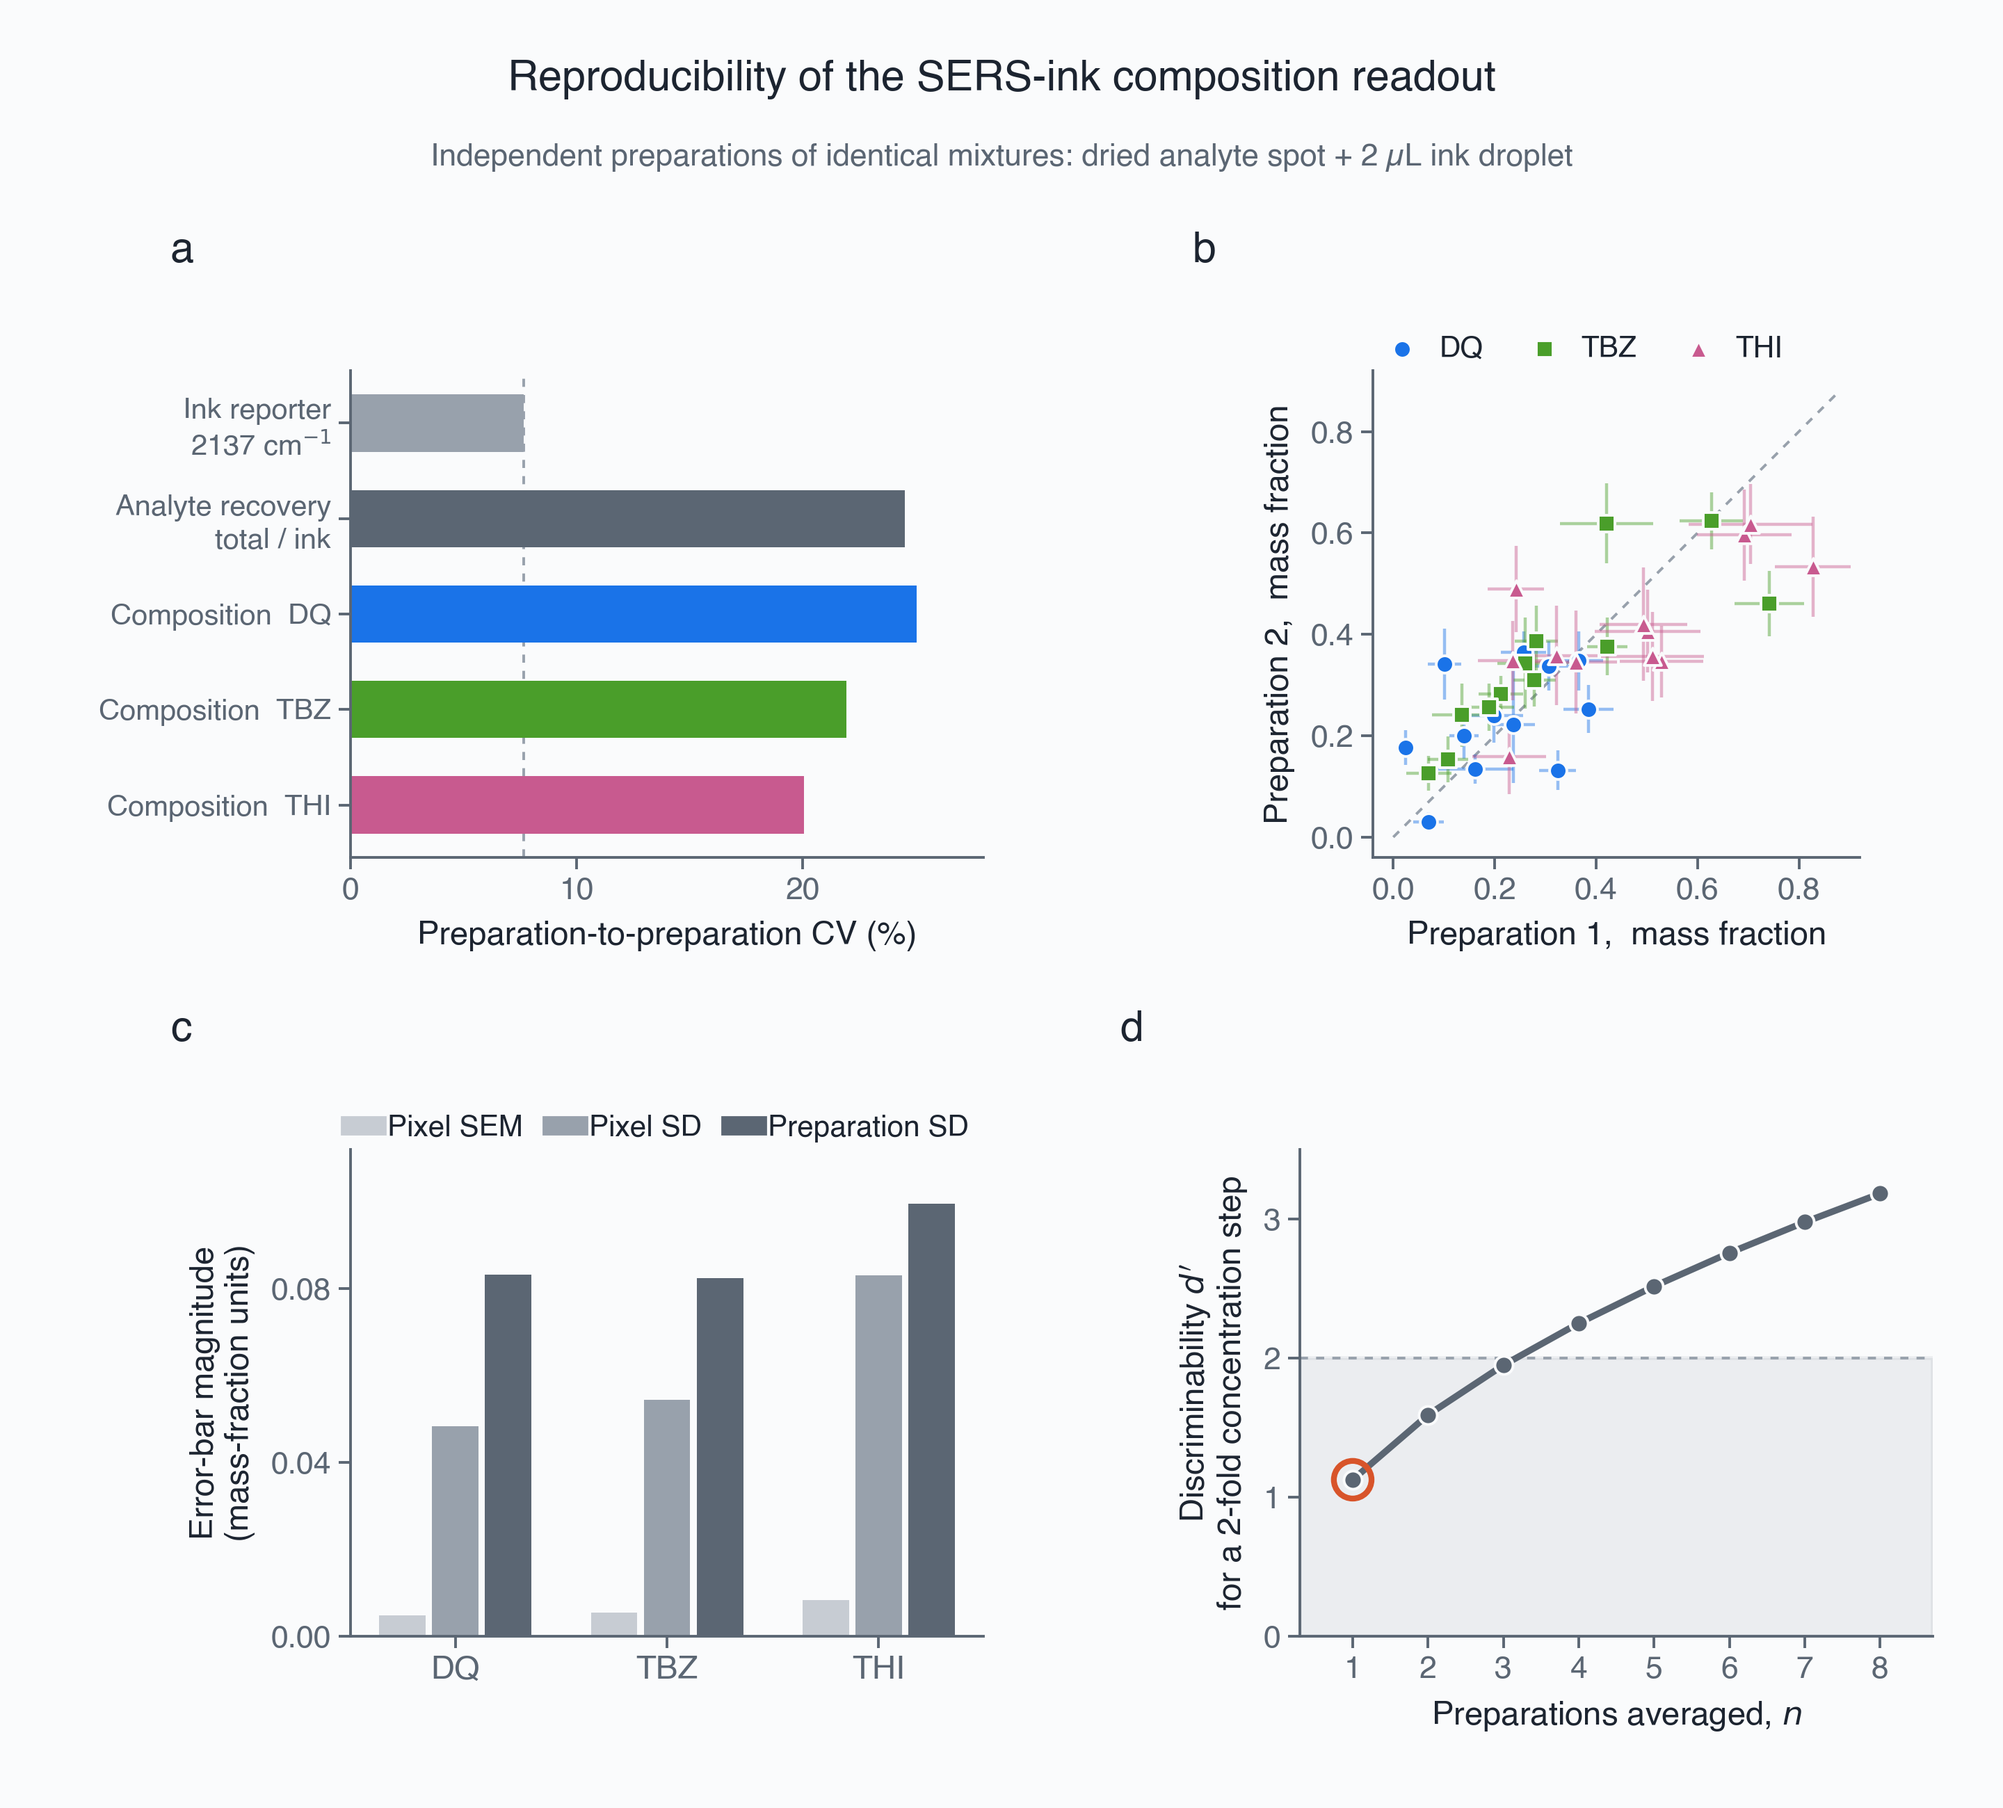
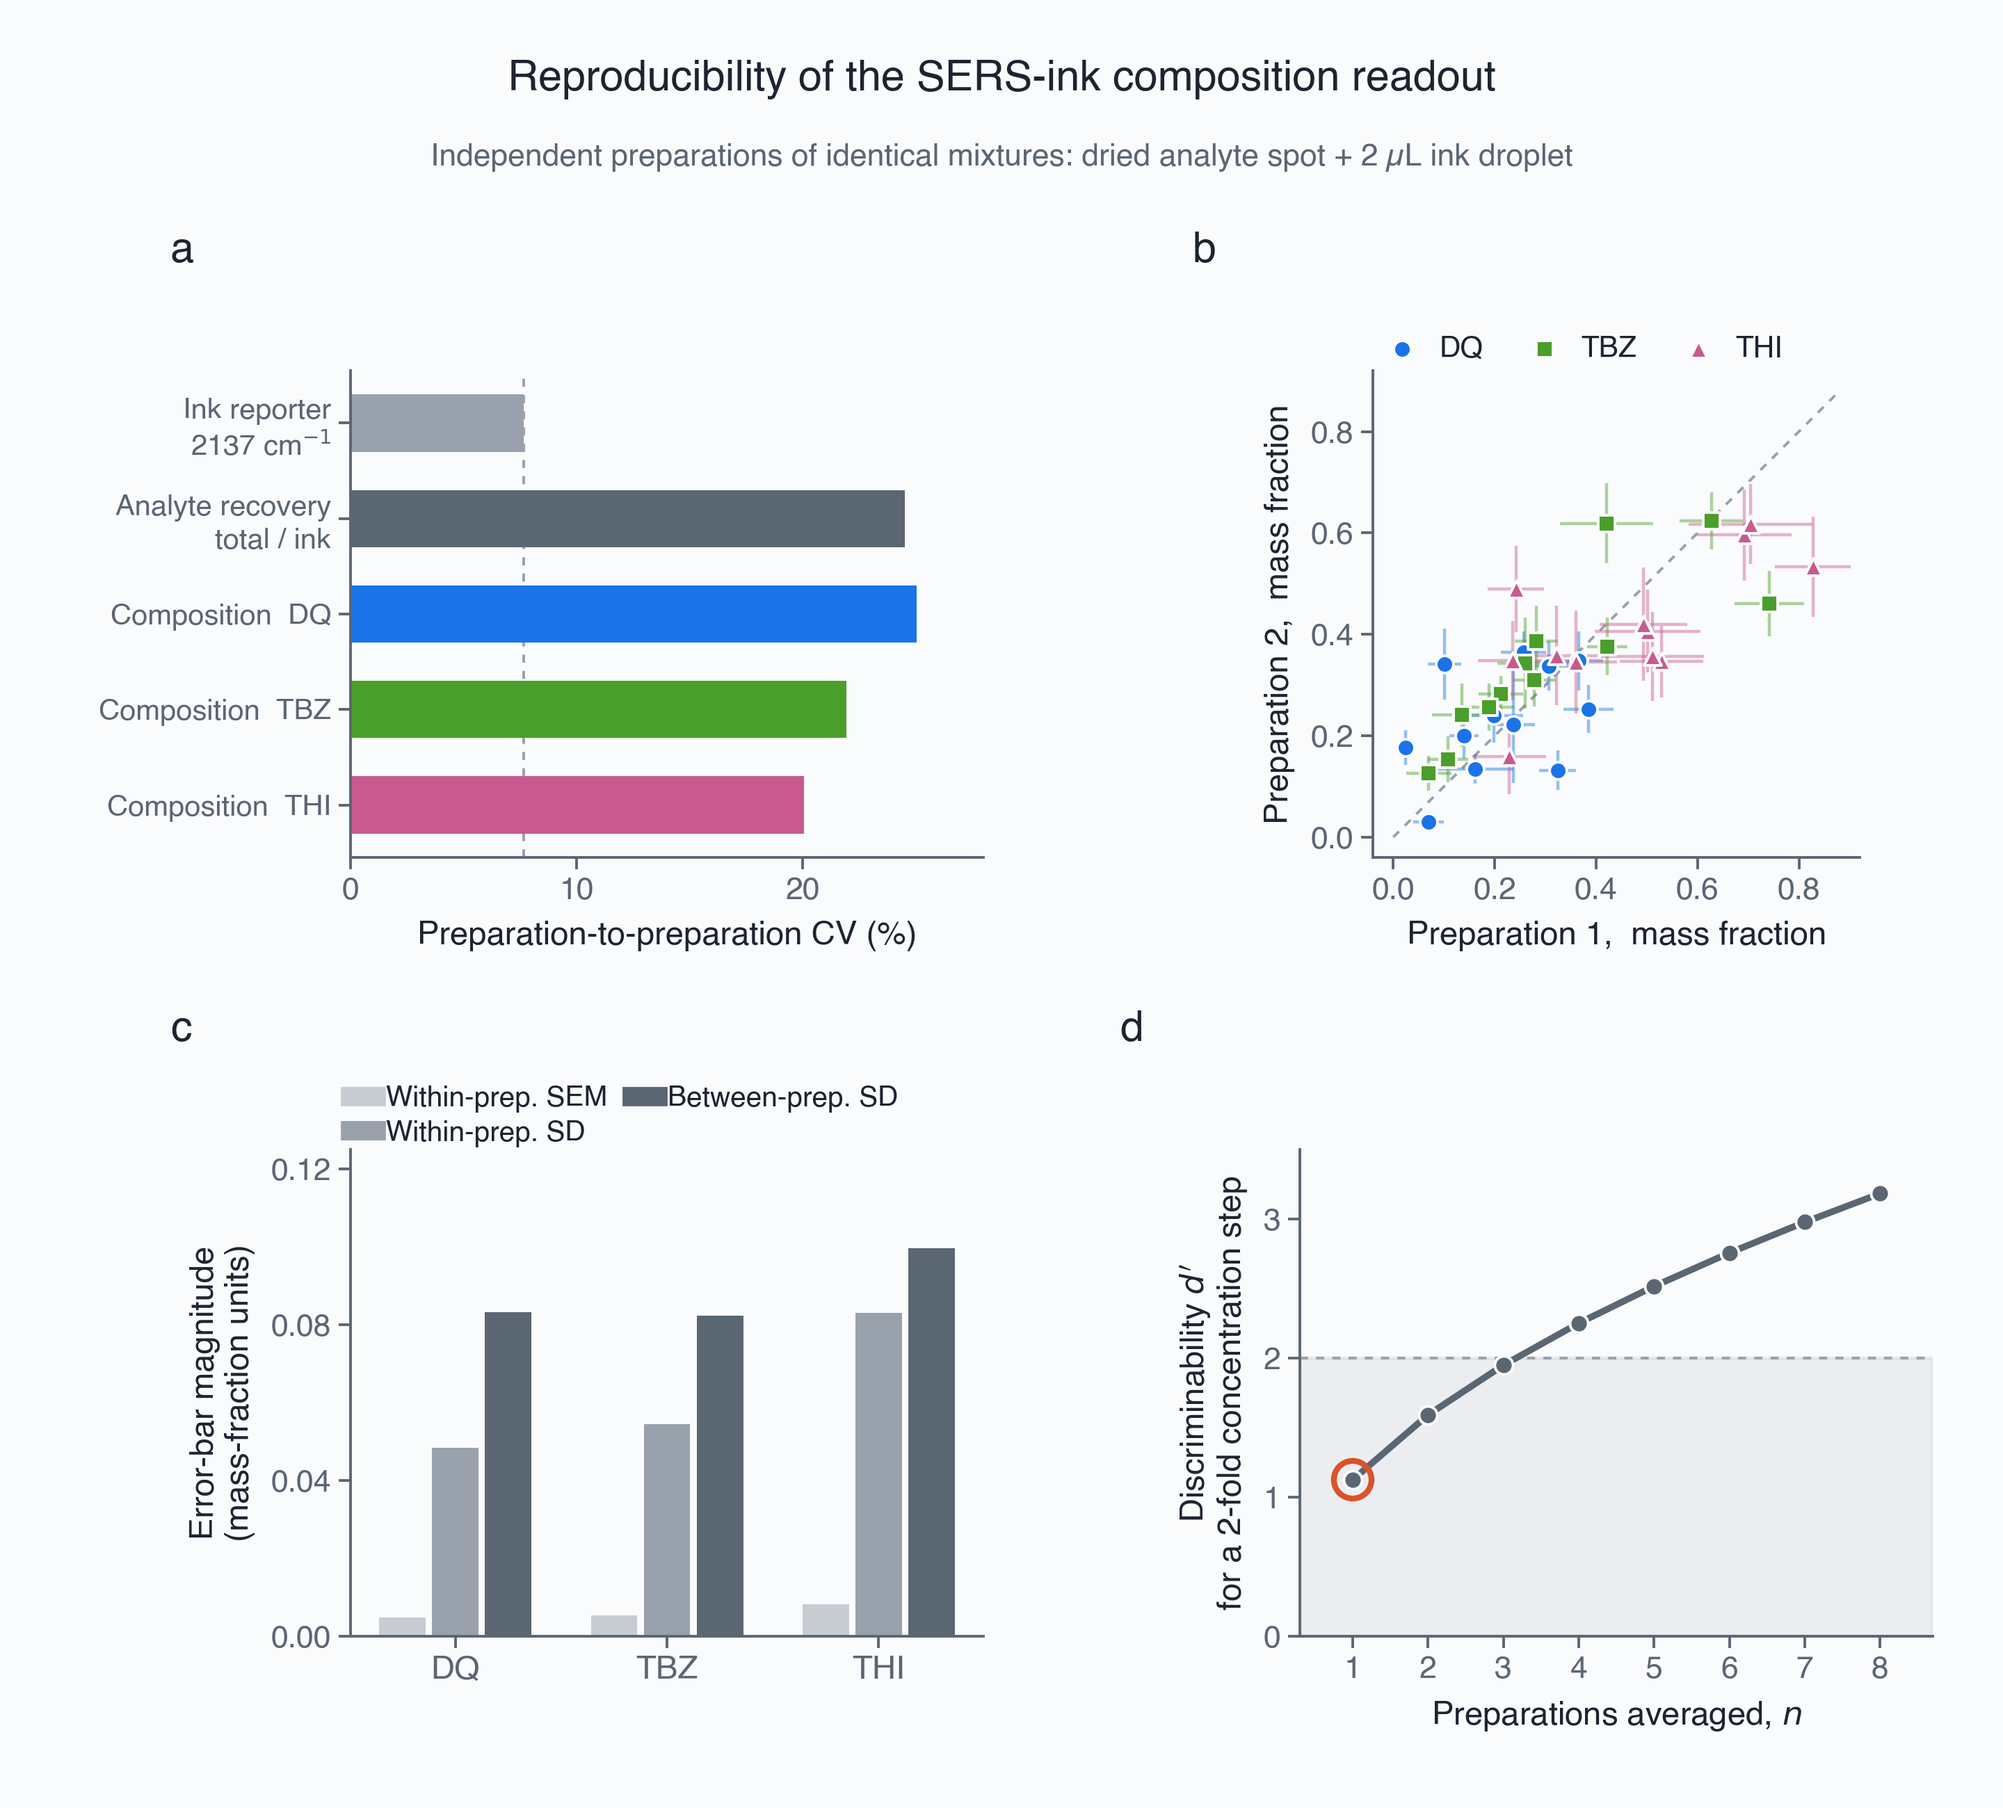
Analysis: drop 'map' from reported wording, use within-/between-preparation
'map' is Raman-imaging jargon the manuscript never defines, so the figure legend
and caption now say Within-prep. SEM / Within-prep. SD / Between-prep. SD.

A bare 'n = 100' is not the fix: unqualified, it reads as 100 independent
replicates, which is exactly the pseudoreplication this figure warns about. The
wording drops 'map' but keeps the unit — the 100 spectra come from within one
preparation.

diff --git a/analysis/dq9-sus-reproducibility/scripts/fig_main.py b/analysis/dq9-sus-reproducibility/scripts/fig_main.py
@@ -90,16 +90,17 @@ ax.legend(loc="lower left",bbox_to_anchor=(0,1.015),ncol=3,fontsize=7.6,
 # ---------- c ----------
 ax=fig.add_subplot(gs[1,0]); clean(ax); PANELS.append((ax,"c"))
 w=.25; x=np.arange(3)
-sets=[("Pixel SEM",sd_pix/10,RAMP[0]),("Pixel SD",sd_pix,RAMP[1]),
-      ("Preparation SD",sd_prep,RAMP[2])]
+sets=[("Within-prep. SEM",sd_pix/10,RAMP[0]),("Within-prep. SD",sd_pix,RAMP[1]),
+      ("Between-prep. SD",sd_prep,RAMP[2])]
 for i,(nm,v,c) in enumerate(sets):
     ax.bar(x+(i-1)*w,v,width=w-.03,color=c,linewidth=0)
 ax.set_xticks(x); ax.set_xticklabels(list(SER),fontsize=8.5)
 ax.set_ylabel("Error-bar magnitude\n(mass-fraction units)",fontsize=8.5)
-ax.set_ylim(0,.112); ax.set_yticks([0,.04,.08])
+ax.set_ylim(0,.125); ax.set_yticks([0,.04,.08,.12])
 ax.legend([Line2D([0],[0],color=c,lw=5) for _,_,c in sets],[s[0] for s in sets],
-          loc="lower left",bbox_to_anchor=(0,1.015),ncol=3,fontsize=7.6,
-          handlelength=.9,handletextpad=.35,columnspacing=1.0,borderpad=0,borderaxespad=0)
+          loc="lower left",bbox_to_anchor=(0,1.005),ncol=2,fontsize=7.3,
+          handlelength=.9,handletextpad=.35,columnspacing=.9,labelspacing=.25,
+          borderpad=0,borderaxespad=0)
 
 # ---------- d ----------
 ax=fig.add_subplot(gs[1,1]); clean(ax); PANELS.append((ax,"d"))

diff --git a/analysis/dq9-sus-reproducibility/README.md b/analysis/dq9-sus-reproducibility/README.md
@@ -112,19 +112,24 @@
 
 ### 오차막대 표기 (중요)
 
-| 표기 | DQ | TBZ | THI | |
+| 표기 (영문) | DQ | TBZ | THI | |
 |---|---|---|---|---|
-| 픽셀 SEM (SD/√100) | 0.005 | 0.005 | 0.008 | **쓰지 말 것 — 진짜 오차의 1/15** |
-| 픽셀 SD (n=100) | 0.048 | 0.054 | 0.083 | 맵 안 불균일성을 보여줄 때 |
-| **조제 SD (n=12)** | **0.083** | **0.082** | **0.100** | **조성 결론에 붙일 오차막대** |
+| Within-prep. SEM (SD/√100) | 0.005 | 0.005 | 0.008 | **쓰지 말 것 — 진짜 오차의 1/15** |
+| Within-prep. SD (한 조제 안 100 스펙트럼) | 0.048 | 0.054 | 0.083 | 조제 내 불균일성을 보여줄 때 |
+| **Between-prep. SD (조제 12쌍)** | **0.083** | **0.082** | **0.100** | **조성 결론에 붙일 오차막대** |
 
-**n=100 픽셀은 독립 반복이 아니다 (pseudoreplication).** 같은 조건·다른 조제 12쌍 × 3성분
-= 36 비교에서 n=100 t-검정 결과 **32/36이 p<0.05** — 정답은 '차이 없음'인데.
-|Cohen d| 중앙값 1.4, 분포 겹침 중앙값 0.43 (21/36이 0.5 미만).
+**"맵"이라는 말은 안 써도 되지만, `n = 100`을 단독으로 쓰면 안 된다.** 수식어 없는 `n = 100`은
+독자가 독립 반복 100회로 읽는다 — 그게 정확히 여기서 경고하는 pseudoreplication이다.
+"맵"이 Raman 이미징 용어라 논문에서 정의를 안 했다면 빼되, **"한 조제 안(within one
+preparation)"**으로 갈음할 것. 그래서 표기를 `Pixel SD` → `Within-prep. SD`,
+`Preparation SD` → `Between-prep. SD`로 통일했다 (figure 범례·캡션 모두).
 
-권장 서술: **"한 맵 안 100포인트의 SD가 0.05~0.08이고, 같은 조건을 다시 조제하면 중앙값
-자체가 그만큼(0.08~0.10) 이동한다."** 두 숫자를 나란히 두면 pseudoreplication 시비 없이
-산포의 실체를 전달한다.
+근거: 같은 조건·다른 조제 12쌍 × 3성분 = 36 비교에서 n=100 t-검정 결과 **32/36이 p<0.05** —
+정답은 '차이 없음'인데. |Cohen d| 중앙값 1.4, 분포 겹침 중앙값 0.43 (21/36이 0.5 미만).
+
+권장 서술: **"한 조제 안에서 얻은 100개 스펙트럼의 SD가 0.05~0.08이고, 같은 조건을 다시
+조제하면 중앙값 자체가 그만큼(0.08~0.10) 이동한다."** 두 숫자를 나란히 두면
+pseudoreplication 시비 없이 산포의 실체를 전달한다.
 
 ### 본문 문장 초안
 

diff --git a/analysis/dq9-sus-reproducibility/figures/CAPTION.md b/analysis/dq9-sus-reproducibility/figures/CAPTION.md
@@ -8,11 +8,12 @@ line), analyte recovery 24.5 %, composition 25.0 % (DQ), 21.9 % (TBZ), 20.0 % (T
 The ink reporter is a controlled variable — identical stock and volume in every
 preparation.
 (**b**) Mass fractions from two independent preparations; dashed line, 1:1. Error bars
-are the within-map pixel SD (*n* = 100 pixels). *r* = 0.78, RMSE = 0.127. Their
-magnitude does not account for the scatter about the 1:1 line.
-(**c**) Pixel SEM (SD/√100) 0.005–0.008, pixel SD 0.048–0.083, preparation SD
-0.083–0.100. The pixel SEM understates the true error 15-fold, because the 100 pixels
-of a map are subsamples of a single preparation rather than independent replicates.
+are the SD across the 100 spectra acquired within one preparation. *r* = 0.78,
+RMSE = 0.127. Their magnitude does not account for the scatter about the 1:1 line.
+(**c**) Within-preparation SEM (SD/√100) 0.005–0.008, within-preparation SD
+0.048–0.083, between-preparation SD 0.083–0.100. The within-preparation SEM understates
+the true error 15-fold: the 100 spectra come from a single preparation and are
+subsamples of it, not independent replicates.
 (**d**) Discriminability *d′* for a two-fold concentration step versus the number of
 preparations averaged; circled point, single preparation (*d′* = 1.13); shaded region,
 *d′* < 2.
